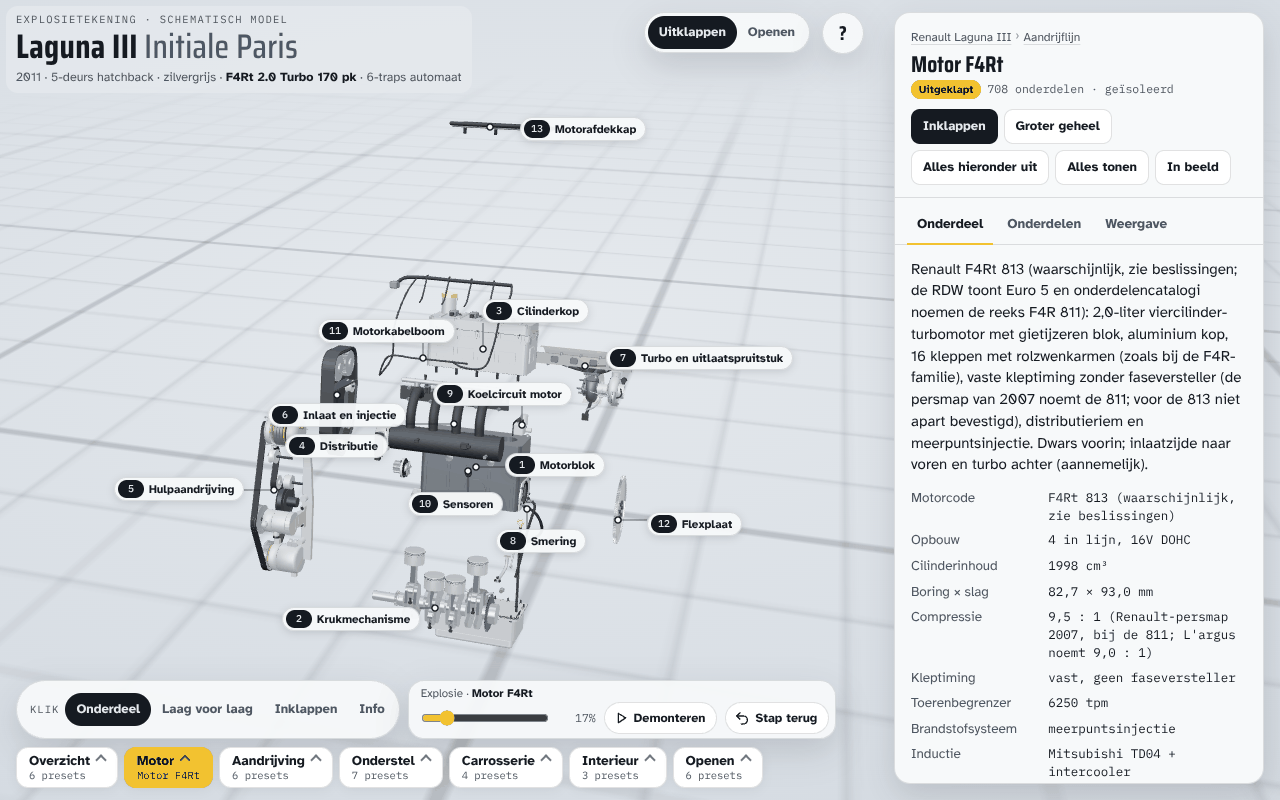
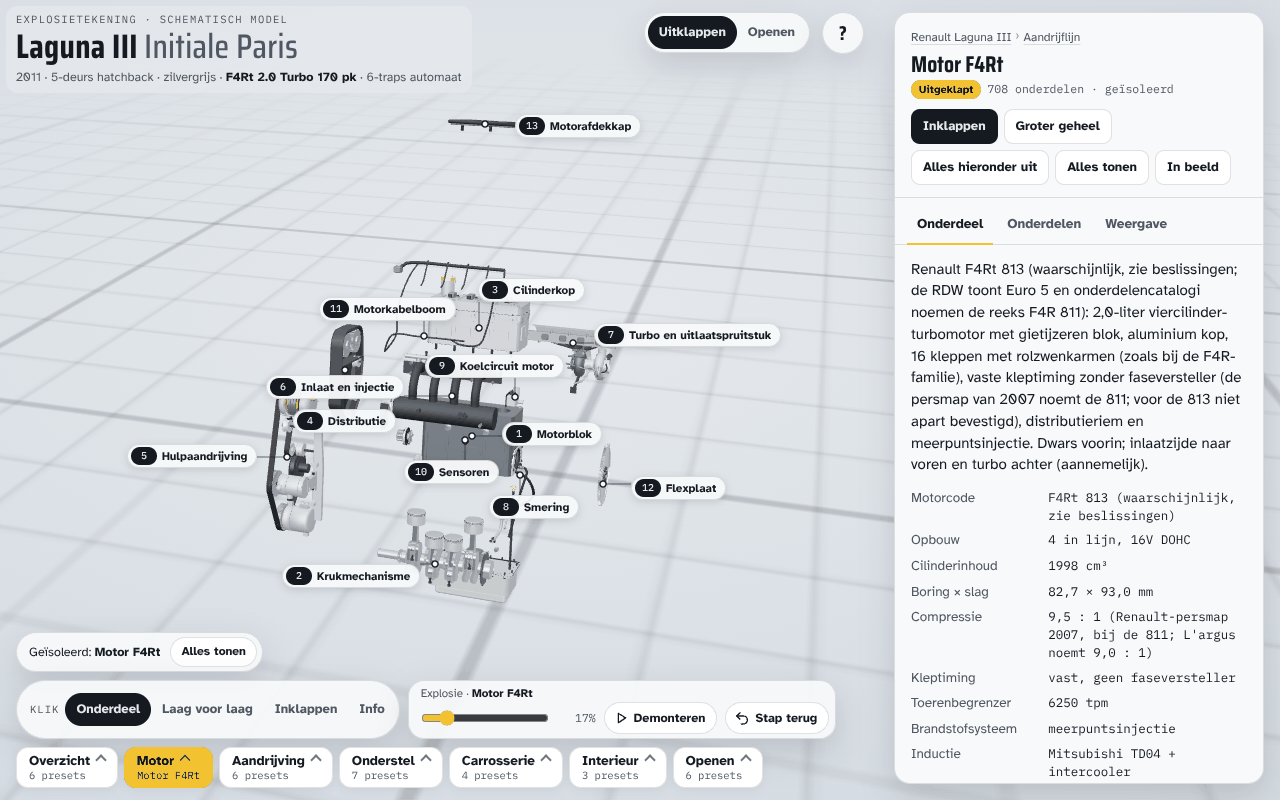
Na de samenvoeging: tree.json (3.023 paden), CSV, kerncijfers en screenshots van versie 8; strikte set groen
Claude-Session: https://claude.ai/code/session_01RCjVtuLVn2Rjmm1TgihnXm

diff --git a/docs/cijfers.md b/docs/cijfers.md
@@ -1,14 +1,14 @@
 # Kerncijfers
 
-Gegenereerd door `tools/orkestratie/cijfers.py` uit `stats.json` op 2026-10-16, bron `0d7cd2e 2026-10-16`. Niet met de hand bewerken; andere documenten verwijzen hiernaar in plaats van getallen te herhalen.
+Gegenereerd door `tools/orkestratie/cijfers.py` uit `stats.json` op 2026-10-16, bron `4429582 2026-10-16`. Niet met de hand bewerken; andere documenten verwijzen hiernaar in plaats van getallen te herhalen.
 
 ## Boom
 
 | Grootheid | Waarde |
 |---|---|
-| Knopen | 3.020 |
+| Knopen | 3.023 |
 | Groepen | 499 |
-| Onderdelen | 2.521 |
+| Onderdelen | 2.524 |
 | Diepte | 8 |
 | Ingesloten knopen (`inner`) | 217 |
 | Presets | 43 |
@@ -21,34 +21,34 @@ Gegenereerd door `tools/orkestratie/cijfers.py` uit `stats.json` op 2026-10-16, 
 | Aandrijflijn | 1.048 | 235.546 | 240.000 |
 | Carrosserie | 496 | 189.446 | 190.000 |
 | Onderstel | 497 | 113.228 | 125.000 |
-| Interieur | 274 | 77.852 | 95.000 |
+| Interieur | 277 | 81.084 | 95.000 |
 | Koeling en luchtinlaat | 74 | 18.824 | 25.000 |
 | Uitlaatsysteem | 52 | 13.184 | 20.000 |
 | Brandstofsysteem | 37 | 9.220 | 12.000 |
 | Elektrisch systeem | 43 | 7.488 | 12.000 |
-| Totaal | 2.521 | 664.788 | 700.000 |
+| Totaal | 2.524 | 668.020 | 700.000 |
 
 ## Tekenopdrachten (gemonteerd)
 
 | Stand | Waarde |
 |---|---|
-| Met gebundeld renderen | 441 |
-| Zonder bundelen | 1.883 |
-| Batches | 46 groepen, 365 batchmeshes, 1.807 losse meshes vervangen, 26.8 MB van 47.9 MB |
+| Met gebundeld renderen | 444 |
+| Zonder bundelen | 1.886 |
+| Batches | 46 groepen, 368 batchmeshes, 1.810 losse meshes vervangen, 27 MB van 48.2 MB |
 
 ## Opstarttijdlijn (software-rendering in de container, ms sinds het begin van de navigatie)
 
 | Moment | ms |
 |---|---|
-| script | 476 |
-| buildStart | 1.141 |
-| buildCar | 1.417 |
-| startUp | 2.628 |
-| render0 | 2.722 |
-| firstFrame | 5.432 |
-| interactive | 5.439 |
-| ready | 10.260 |
-| duur buildCar() | 276 |
+| script | 617 |
+| buildStart | 1.427 |
+| buildCar | 1.250 |
+| startUp | 2.759 |
+| render0 | 2.848 |
+| firstFrame | 5.609 |
+| interactive | 5.617 |
+| ready | 10.356 |
+| duur buildCar() | 1.250 |
 
 Deze tijden zeggen niets over een echt apparaat; zie `docs/telefoontest.md`.
 

diff --git a/handomdraai.md b/handomdraai.md
@@ -32,6 +32,8 @@ Stand 16 oktober 2026, 09:50 UTC. Versie 7 is live: de parallelle sessie zette `
 
 ## Tests
 
+Strikte set op de samenvoeging met `main` van versie 7 (`fddf2ca`, uitvoer `g8merge` in het scratchpad, 16 oktober rond 10:00 UTC), alle dertien tests groen: itest 218 van 218, opentest strikt 0 fouten, `ui_inner --open --strict` 0 treffers, budgetpoort ok, pubsmoke klaar na 10,5 s, `visdiff` 42 van 42 zonder nieuwe basislijn, ankerpoort ok. Daarna `data/tree.json` ververst (3.023 paden; drie nieuwe paden van haar zijbekleding en bagagevloer als niet onderzocht), `docs/cijfers.md` opnieuw gegenereerd en de screenshots vernieuwd.
+
 Strikte set op de eindstand van deze ronde (`452916e`, uitvoer `g5c/final` in het scratchpad, 02:55 tot 03:16 UTC), alle dertien tests groen: lint ok (ook het inline script in `head.html`); smoke, integrity (0 fouten), silhouette, `ui_inner --open --strict`, opentest strikt (26 openers, 0 fouten), `ITEST_GATES=1 itest` 218 van 218 (1.067 s), `tri --gate` ok, pubsmoke klaar na 9,9 s met `integrity` van de CDN, stats, presetshots (42), `visdiff` 42 van 42 tegen de basislijn van `452916e`, `anchorcheck` ok tegen de basis (352 labels, eigen 319, vrij 265). Details in `docs/testen.md`.
 
 Eerder, strikte set op de samenvoeging van golf 5 (`2c179a5`, uitvoer `g5merge` in het scratchpad, 01:21 tot 01:52 UTC), alles groen: lint ok; smoke (geen consolefouten of -waarschuwingen, geen horizontale scroll); integrity 0 fouten, 0 ankerfouten, 0 presetfouten; silhouette ok; `ui_inner --open --strict` geen ingesloten knoop van buiten zichtbaar; opentest 26 openers 0 fouten met `--strikt-min` (515 s; twee meldingen over volgers zonder `min`, toegestaan); `ITEST_GATES=1 itest` 161 van 161 (899 s); `tri --gate` budgetpoort ok; pubsmoke klaar na 9,5 s op 390 x 844; stats ok. CI op GitHub: groen op `2c179a5` (push- en PR-run).
